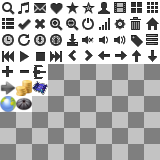
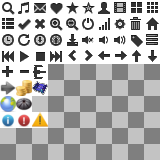
Ajout des icones pour les windows info error et warning

Changed region(s): [[0.0, 0.6875, 0.3125, 0.8125]]

diff --git a/src/space_2/SpriteParameterDefine.h b/src/space_2/SpriteParameterDefine.h
@@ -55,6 +55,9 @@
 #define IC_16X16_MAP				"2-5"
 #define IC_16X16_PLANET				"0-6"
 #define IC_16X16_STATION			"1-6"
+#define IC_16X16_INFO				"0-7"
+#define IC_16X16_ERROR				"1-7"
+#define IC_16X16_WARNING			"2-7"
 
 
 // ICON 32X32
@@ -70,6 +73,9 @@
 #define IC_32X32_MAP				"7-1"
 #define IC_32X32_PANET				"0-2"
 #define IC_32X32_STATION			"1-2"
+#define IC_32X32_INFO				"0-3"
+#define IC_32X32_ERROR				"1-3"
+#define IC_32X32_WARNING			"2-3"
 
 
 // ICON 48X48
@@ -78,6 +84,9 @@
 #define IC_48X48_MAP				"2-0"
 #define IC_48X48_PLANET				"0-1"
 #define IC_48X48_STATION			"1-1"
+#define IC_48X48_INFO				"0-2"
+#define IC_48X48_ERROR				"1-2"
+#define IC_48X48_WARNING			"2-2"
 
 
 // ICON 64X64
@@ -88,6 +97,9 @@
 #define IC_64X64_MAP				"4-0"
 #define IC_64X64_PLANET				"0-1"
 #define IC_64X64_STATION			"1-1"
+#define IC_64X64_INFO				"0-2"
+#define IC_64X64_ERROR				"1-2"
+#define IC_64X64_WARNING			"2-2"
 
 
 #endif
